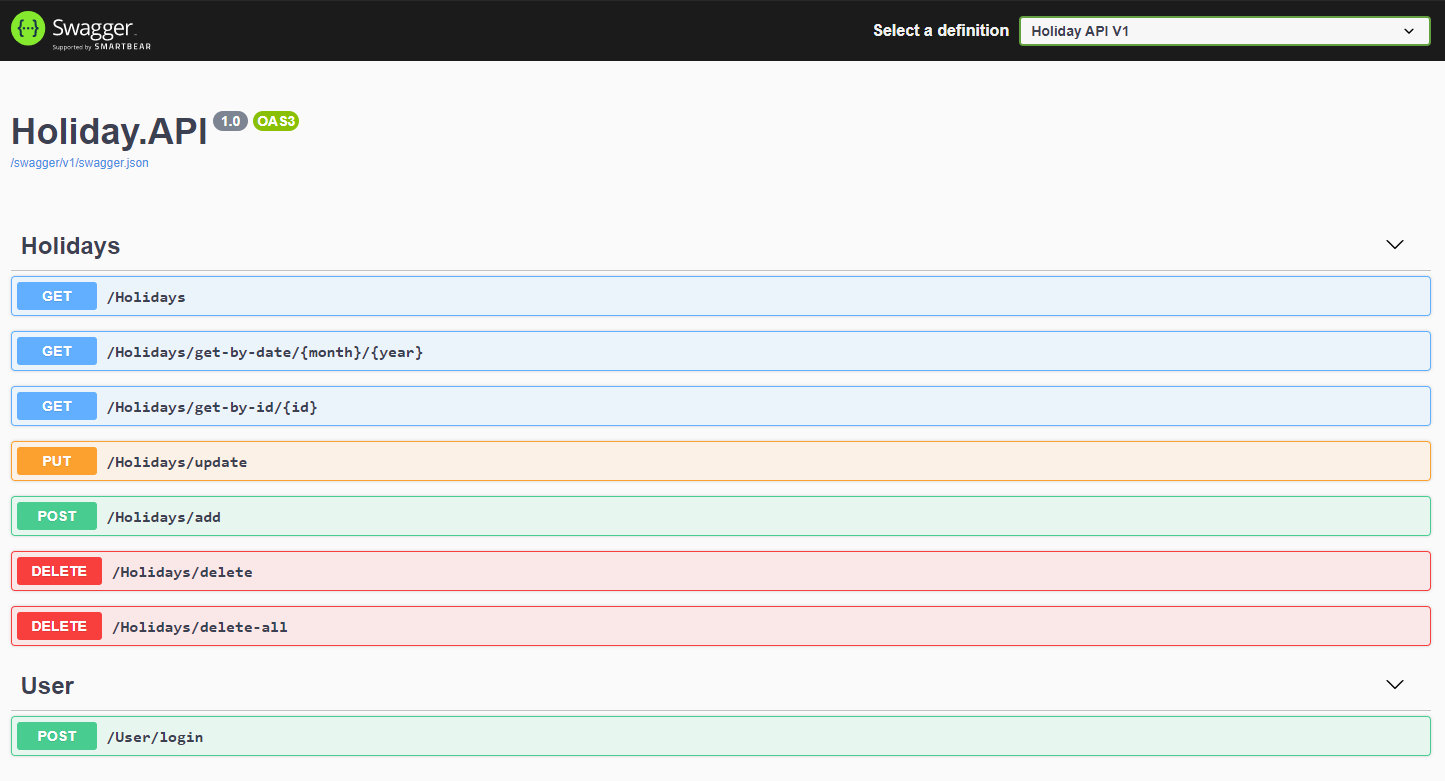
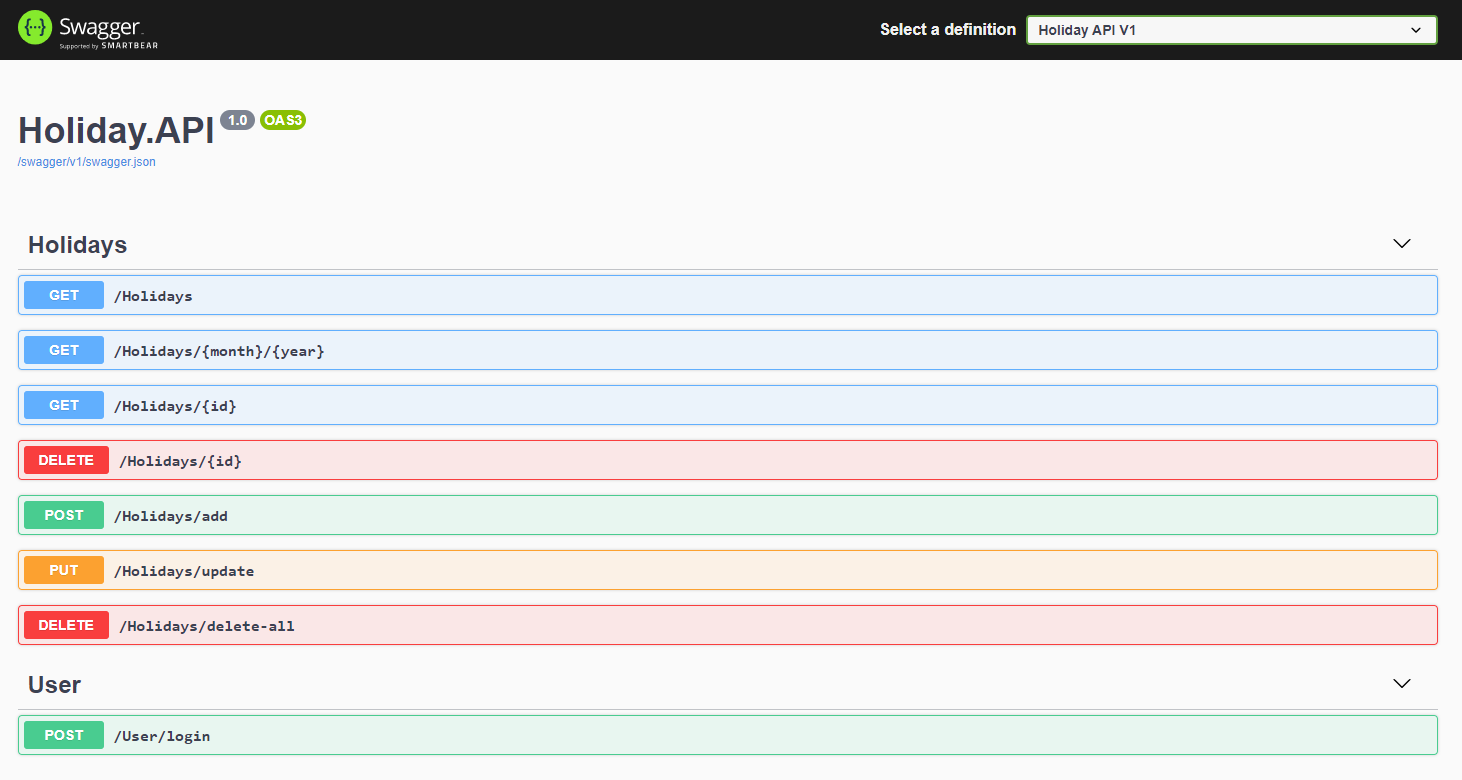
ajuste endpoint delete (utilizando id via path) e att README

diff --git a/Teste 2/Holiday.API/Controllers/HolidaysController.cs b/Teste 2/Holiday.API/Controllers/HolidaysController.cs
@@ -47,11 +47,12 @@ namespace Holiday.API.Controllers
         }
 
         /// <summary>
-        /// Return the holidays by their month and year
+        /// Return holidays based on their month and year
         /// </summary>
-        /// <param name="requestModel"></param>
+        /// <param name="month">holiday month</param>
+        /// <param name="year">holiday year</param>
         /// <returns></returns>
-        [HttpGet("get-by-date/{month:int:min(1):max(12)}/{year:int:min(1900):max(2100)}")]
+        [HttpGet("{month:int:min(1):max(12)}/{year:int:min(1900):max(2100)}")]
         [AllowAnonymous]
         public IActionResult GetHoliday(int month, int year)
         {
@@ -68,11 +69,11 @@ namespace Holiday.API.Controllers
         }
 
         /// <summary>
-        /// Return a holiday by its ID
+        /// Return an holiday by its ID
         /// </summary>
-        /// <param name="requestModel"></param>
+        /// <param name="id">Holiday ID</param>
         /// <returns></returns>
-        [HttpGet("get-by-id/{id:int}", Name = "GetById")]
+        [HttpGet("{id:int}", Name = "GetById")]
         [AllowAnonymous]
         public ActionResult<HolidayViewModel> GetHoliday(int id)
         {
@@ -139,13 +140,13 @@ namespace Holiday.API.Controllers
         }
 
         /// <summary>
-        /// Delete a holiday
+        /// Delete an holiday
         /// </summary>
-        /// <param name="requestModel"></param>
+        /// <param name="id">Holiday ID</param>
         /// <returns></returns>
-        [HttpDelete("delete")]
+        [HttpDelete("{id:int}")]
         [Authorize(Roles = Roles.ADMIN)]
-        public ActionResult<HolidayViewModel> DeleteHoliday(HolidayDeleteRequestModel requestModel)
+        public ActionResult<HolidayViewModel> DeleteHoliday(int id)
         {
             if (!ModelState.IsValid)
             {
@@ -153,7 +154,7 @@ namespace Holiday.API.Controllers
                 return BadRequest("A bad request call was made. Verify the parameters you used.");
             }
 
-            var holiday = _holidayApplication.DeleteHoliday(requestModel);
+            var holiday = _holidayApplication.DeleteHoliday(id);
 
             if (holiday == null)
                 return NotFound("It was not possible to delete the holiday. Holiday not found.");

diff --git a/Teste 2/Holiday.Tests/DeleteHolidayTests.cs b/Teste 2/Holiday.Tests/DeleteHolidayTests.cs
@@ -43,8 +43,8 @@ namespace Holiday.Tests
             var newHoliday = _holidayApplication.AddHoliday(addRequest);
             var totalHolidays = _holidayDB.Holidays.Count;
             var lastHolidayId = _holidayDB.GetLastHolidayId();
-            var deleteRequest = new HolidayDeleteRequestModel { Id = lastHolidayId };
-            var deletedHoliday = _holidayApplication.DeleteHoliday(deleteRequest);
+            var id = lastHolidayId;
+            var deletedHoliday = _holidayApplication.DeleteHoliday(id);
 
             //Assert
             Assert.AreEqual(_holidayDB.Holidays.Count, totalHolidays - 1);
@@ -58,10 +58,10 @@ namespace Holiday.Tests
         {
             // Arrange
             var nextHolidayId = _holidayDB.GetNextHolidayId();
-            var deleteRequest = new HolidayDeleteRequestModel { Id = nextHolidayId };
+            var id = nextHolidayId;
 
             //Act
-            var result = _holidayApplication.DeleteHoliday(deleteRequest);
+            var result = _holidayApplication.DeleteHoliday(id);
 
             //Assert
             Assert.IsNull(result);

diff --git a/Teste 2/Holiday.Application/HolidayApplication.cs b/Teste 2/Holiday.Application/HolidayApplication.cs
@@ -54,12 +54,12 @@ namespace Holiday.Application
             }
         }
 
-        public holiday DeleteHoliday(HolidayDeleteRequestModel requestModel)
+        public holiday DeleteHoliday(int id)
         {
             try
             {
                 _logger.LogInformation("Deleting a holiday...");
-                return _holidayDB.DeleteHoliday(requestModel.Id);
+                return _holidayDB.DeleteHoliday(id);
             }
             catch (Exception e)
             {

diff --git a/Teste 2/Holiday.Application/IHolidayApplication.cs b/Teste 2/Holiday.Application/IHolidayApplication.cs
@@ -12,7 +12,7 @@ namespace Holiday.Application
         holiday GetHoliday(int id);
         holiday UpdateHoliday(HolidayUpdateRequestModel requestModel);
         holiday AddHoliday(HolidayAddRequestModel requestModel);
-        holiday DeleteHoliday(HolidayDeleteRequestModel requestModel);
+        holiday DeleteHoliday(int id);
         int DeleteAllHolidays();
     }
 }

diff --git a/Teste 2/README.md b/Teste 2/README.md
@@ -45,11 +45,11 @@ Veja a relação na tabela abaixo:
 | Method | Endpoint                            | Role          |
 | ------ | ----------------------------------- |-------------  |
 | GET    | /Holidays                           | N/A           |
-| GET    | /Holidays/get-by-date/{month}/{year}| N/A           |
-| GET    | /Holidays/get-by-id/{id}            | N/A           |
+| GET    | /Holidays/{month}/{year}            | N/A           |
+| GET    | /Holidays/{id}                      | N/A           |
 | PUT    | /Holidays/update                    | ADMIN         |
 | POST   | /Holidays/add                       | USER ou ADMIN |
-| DELETE | /Holidays/delete                    | ADMIN         |
+| DELETE | /Holidays/{id}                      | ADMIN         |
 | DELETE | /Holidays/delete-all                | ADMIN         |
 
 ## :unlock: Autenticação
@@ -79,12 +79,12 @@ Para consultar feriados, a API dispõe de três endpoints:
 
     1.  /holidays
         Este endpoint retornará todos os feriados cadastrados.
-    2.  /holidays/get-by-date/{month}/{year}
+    2.  /holidays/{month}/{year}
         Neste endpoint, conseguimos obter todos os feriados cadastrados para um mês e ano.
 
 <img src="./images/get_by_date.png"/>
 
-    3.  /holidays/get-by-id/{id}
+    3.  /holidays/{id}
         Por este endepoint, obtemos um feriado específico passando um ID na URL da requisição:
 
 <img src="./images/get_by_id.png"/>
@@ -140,13 +140,8 @@ _Para **remover** é necessário estar autorizado como **ADMIN**_
 
 Para remover feriados, dispomos de dois endpoints:
 
-    1.  /holidays/delete
+    1.  /holidays/{id}
         Este remove um único feriado de acordo com o ID informado no body da requisição:
-```javascript
-{
-    "id": 2
-}
-```
 <img src="./images/delete.png"/>
 
     2.  /holidays/delete-all
